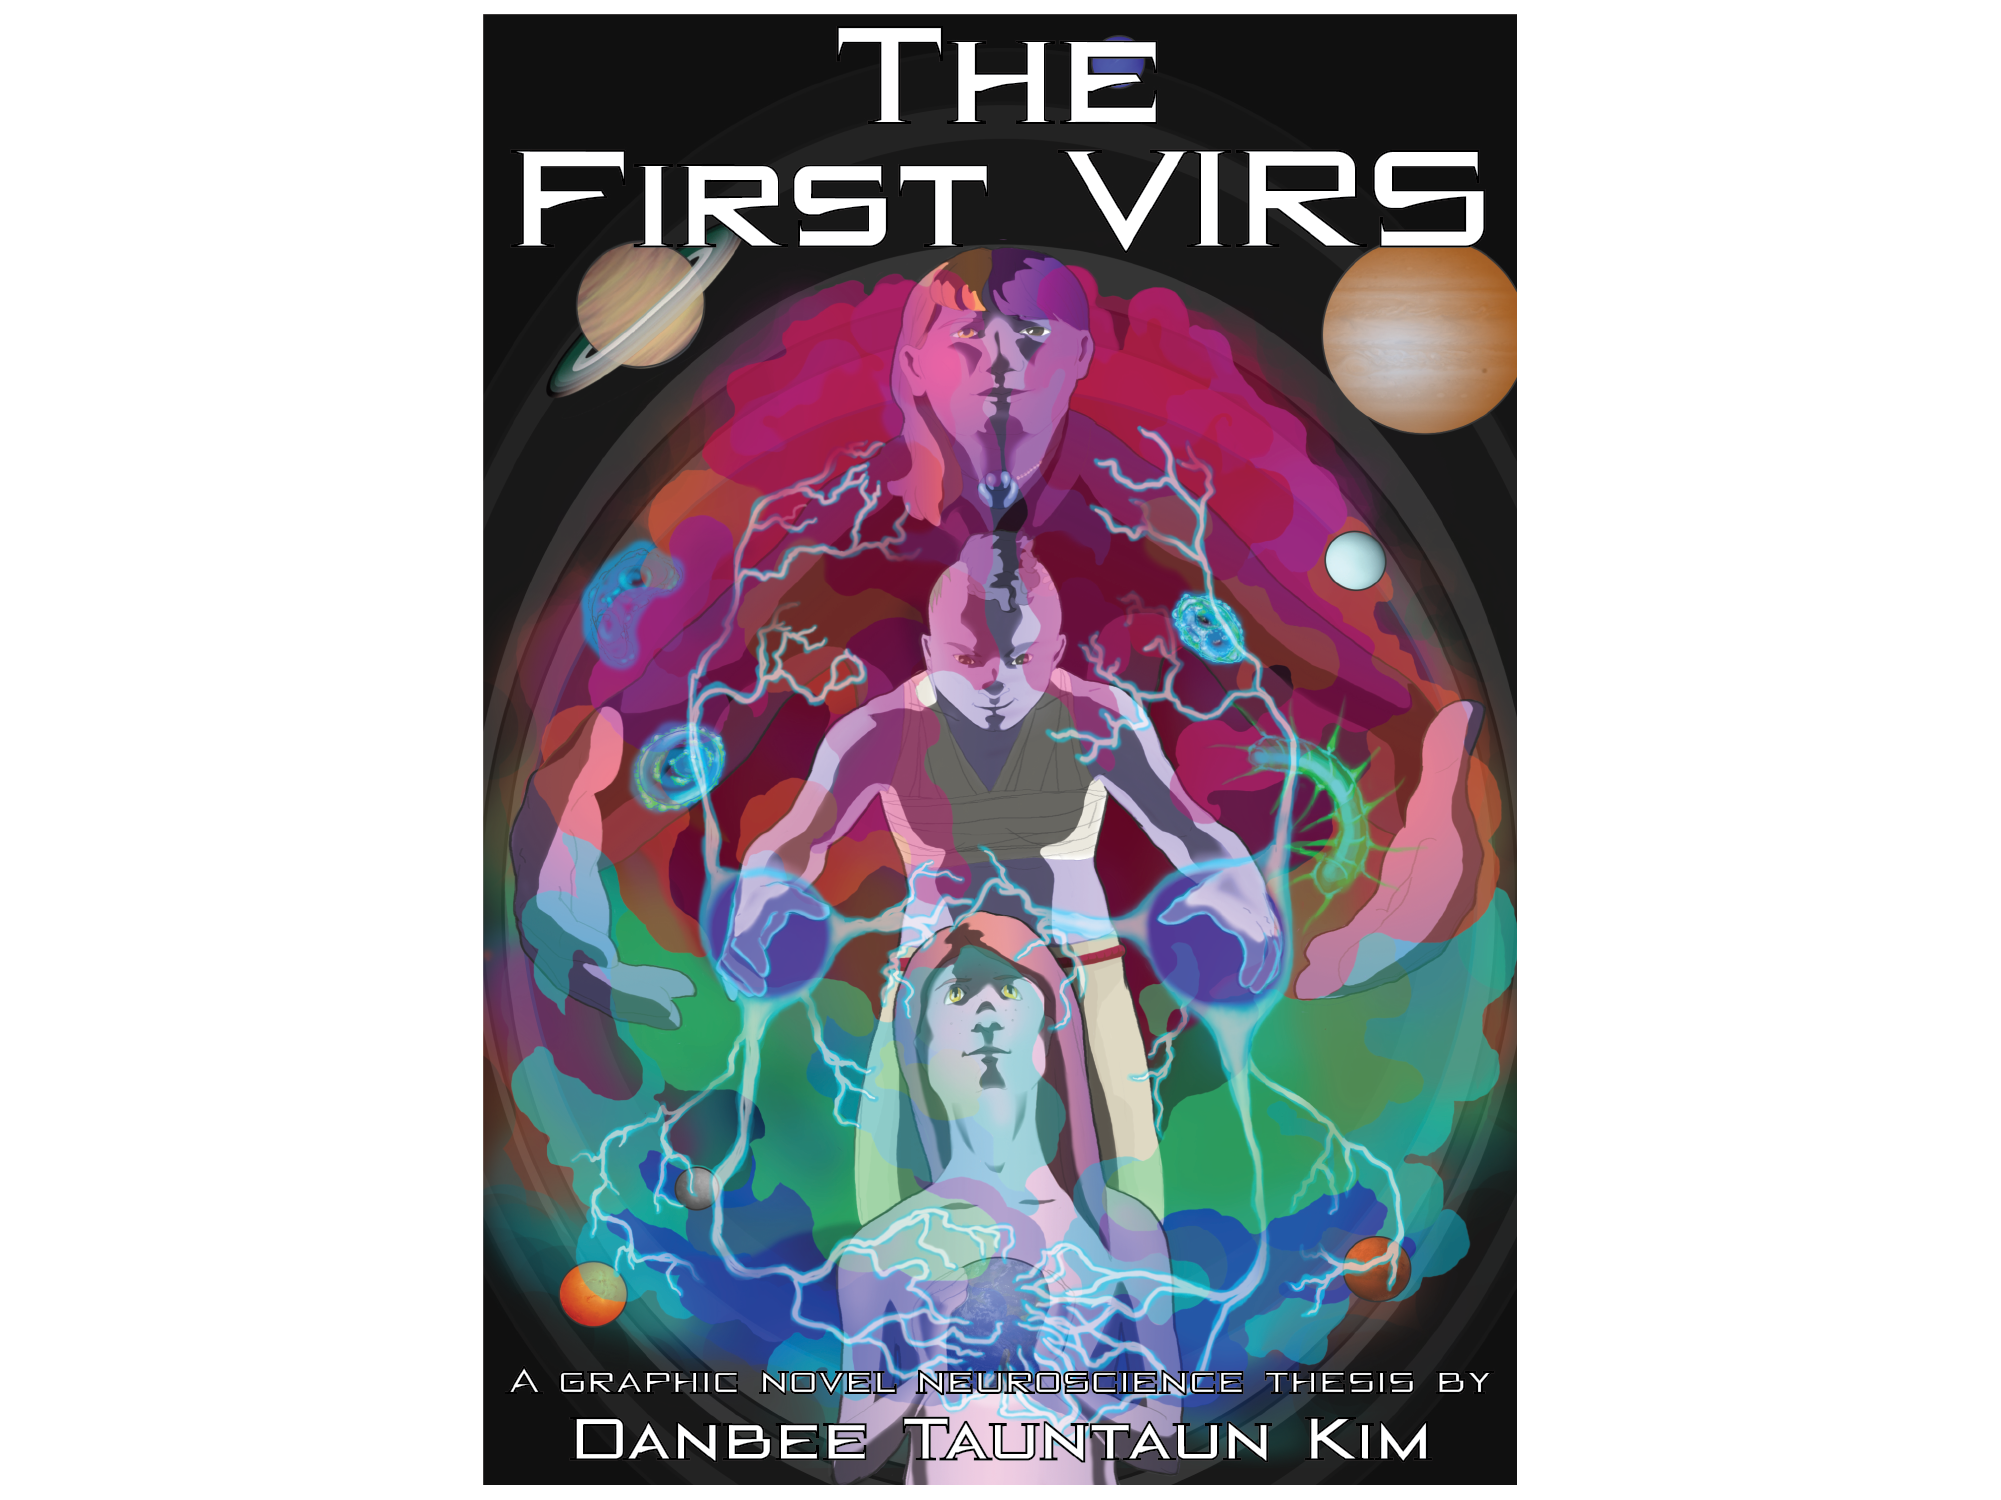
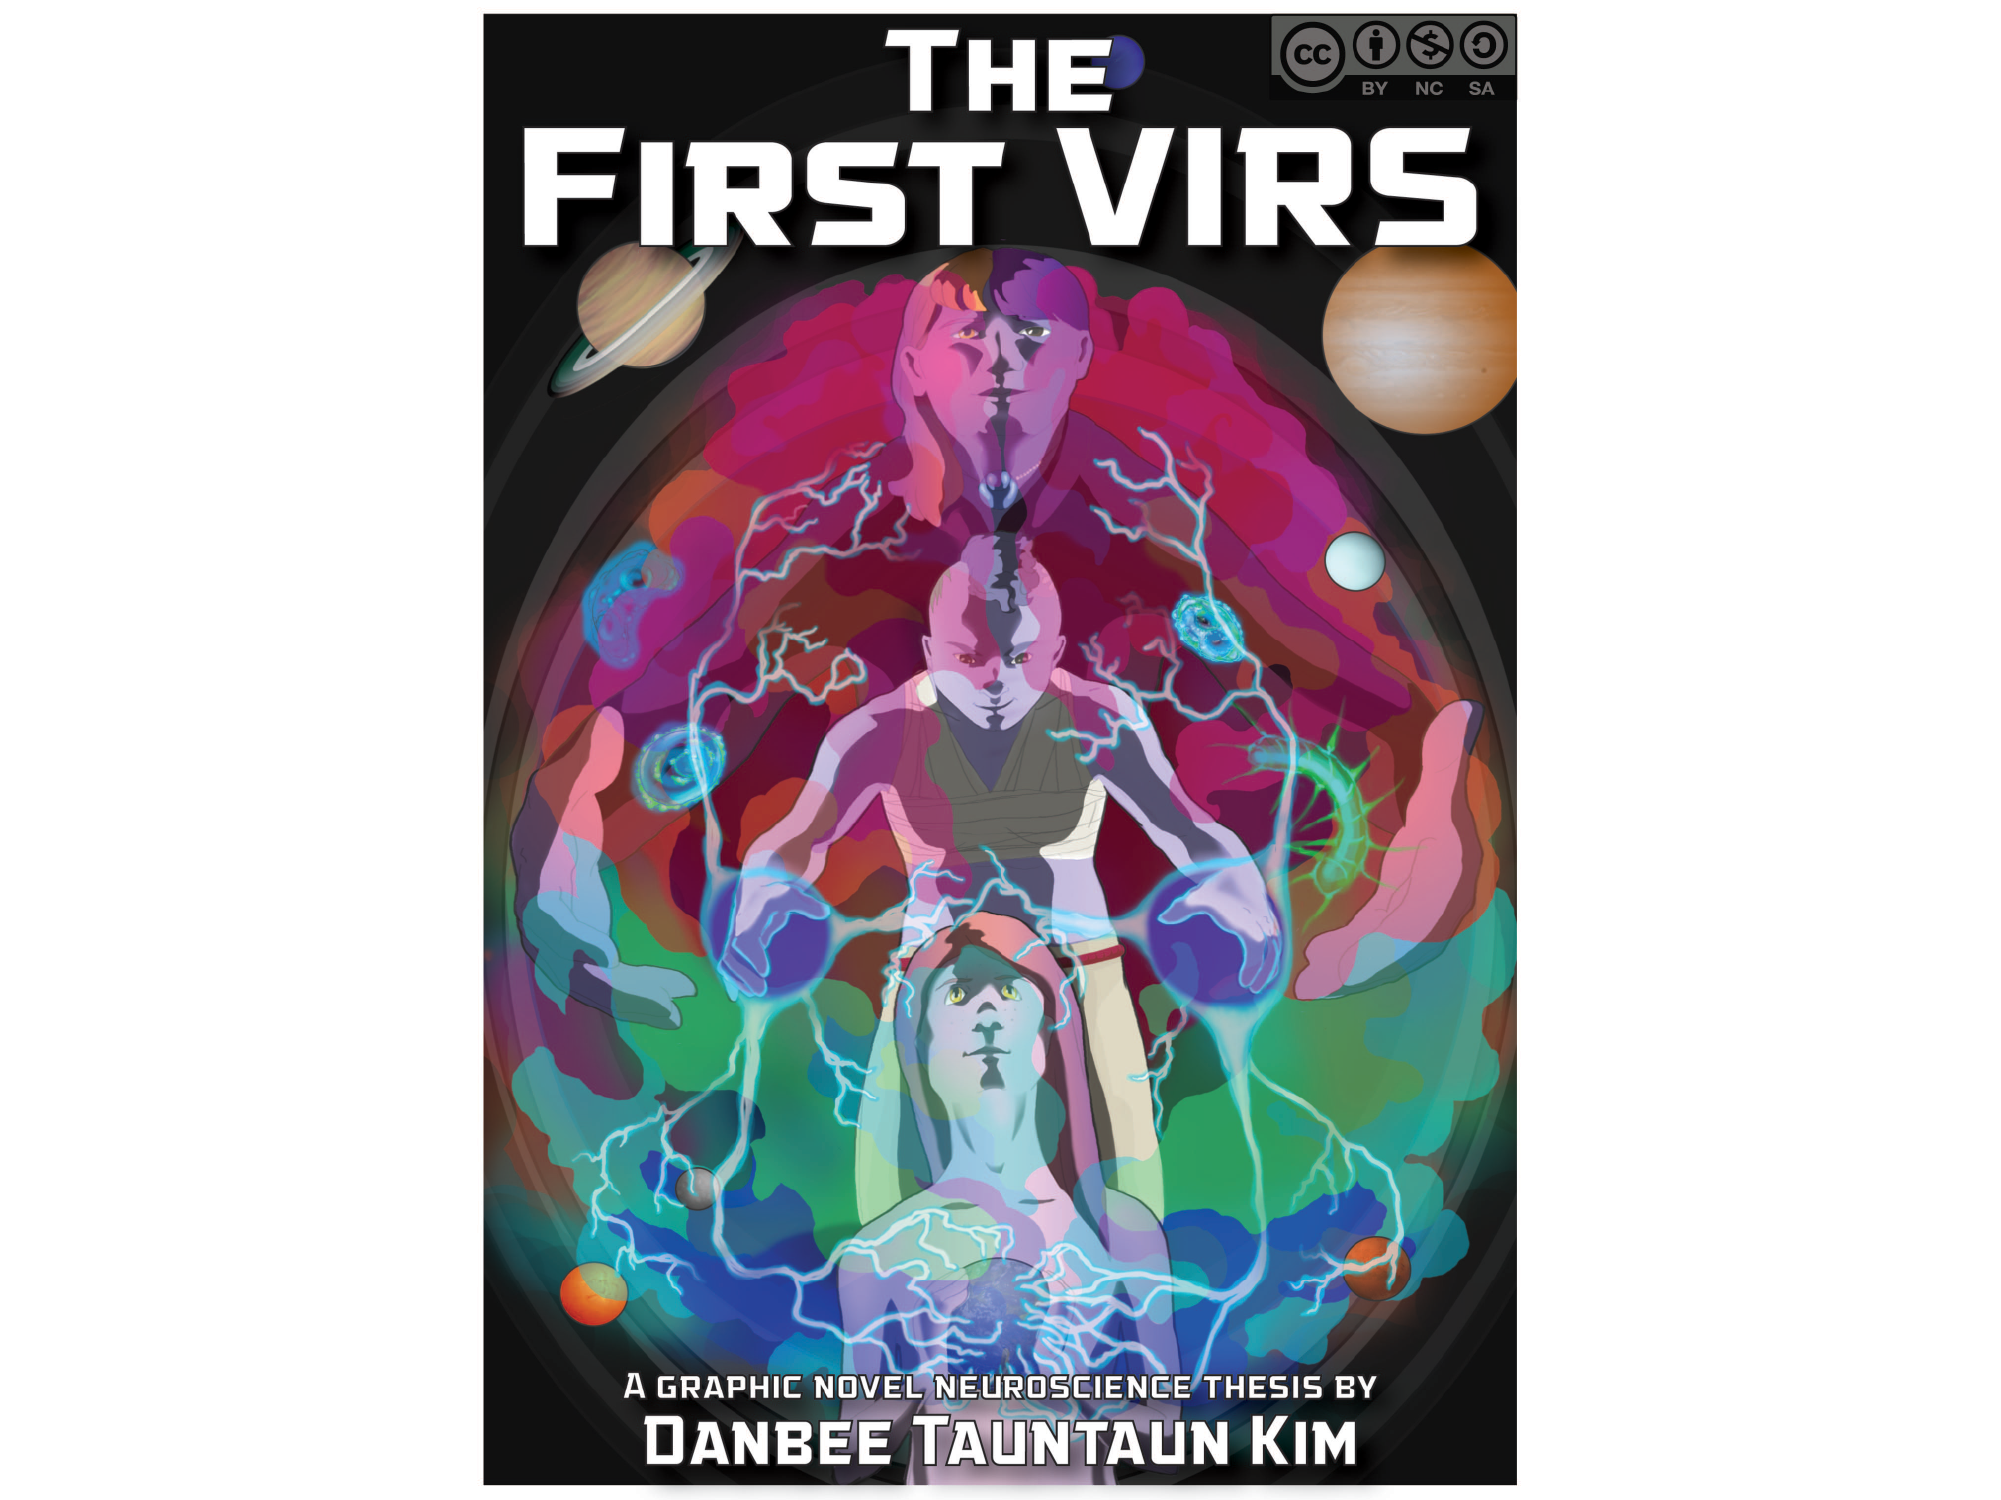
updated book cover font and pr flyer

diff --git a/_open-lab-notebook/08-graphic-novel-thesis-beta.md b/_open-lab-notebook/08-graphic-novel-thesis-beta.md
@@ -1,6 +1,6 @@
 ---
 title: "*The First VIRS*: A graphic novel thesis"
-permalink: /graphic-novel-thesis/beta
+permalink: /VIRS
 excerpt: 
 categories:
   - open-lab-notebook
